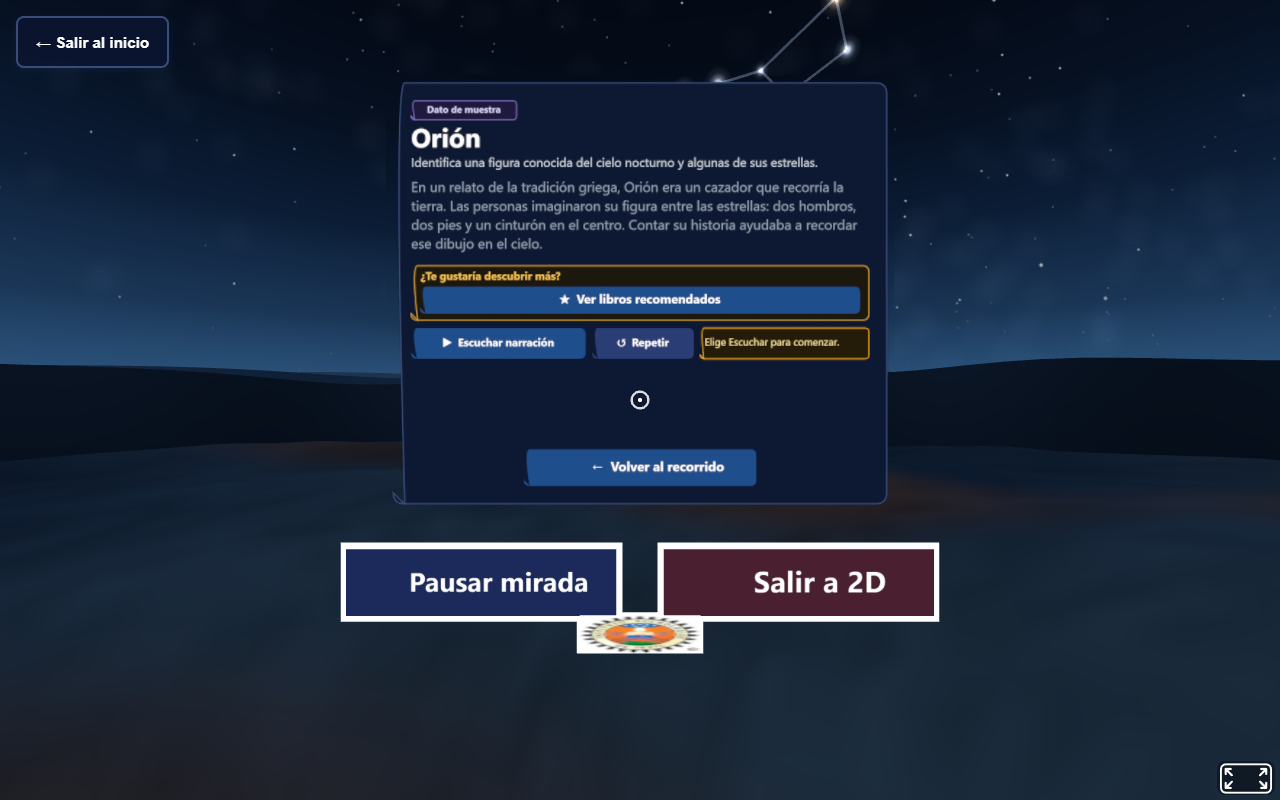
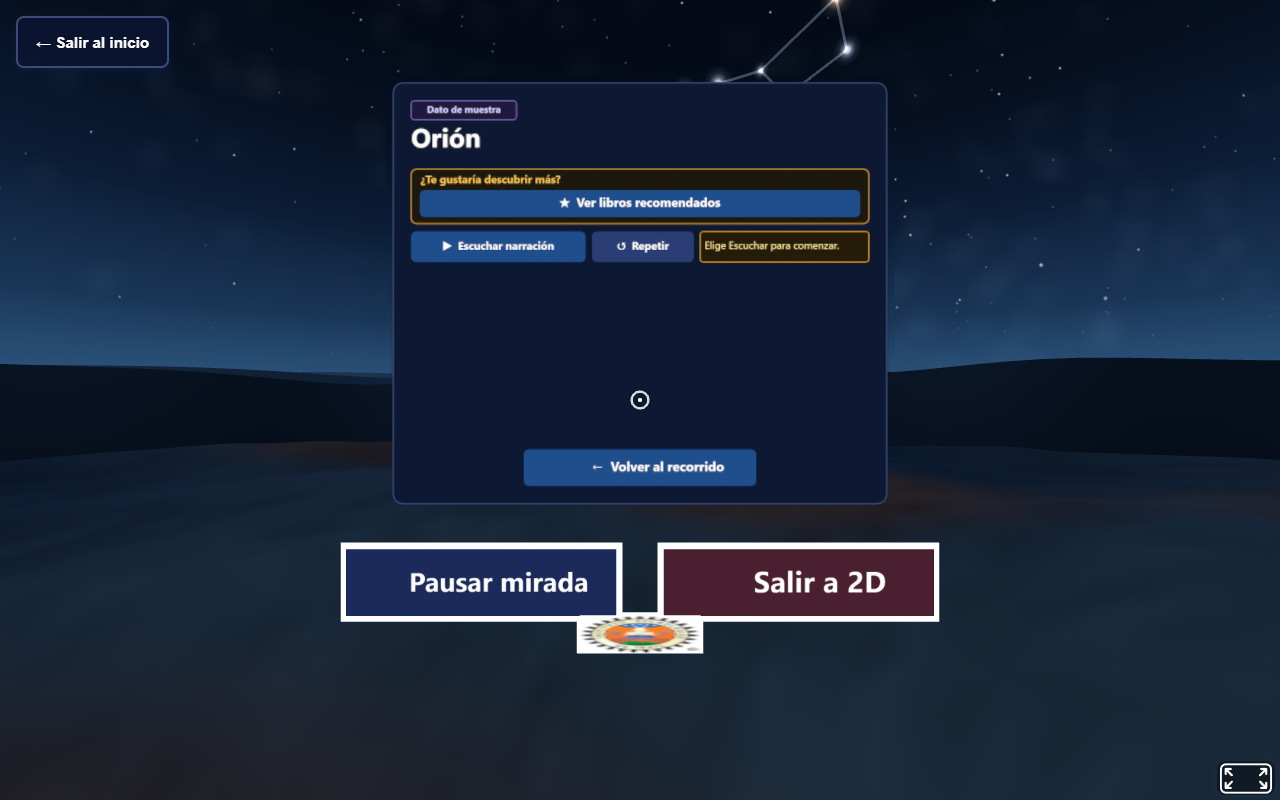
fix(vr): corregir trazarRecta, boton repetir, ficha compacta y activacion homido (S5-02)

Changed region(s): [[0.2812, 0.1562, 0.6875, 0.4688], [0.4062, 0.5625, 0.4375, 0.5938], [0.3125, 0.125, 0.3438, 0.1562]]

diff --git a/astrovisor-s1-inicio/frontend/test/homido-vr-s5.test.js b/astrovisor-s1-inicio/frontend/test/homido-vr-s5.test.js
@@ -1,55 +1,65 @@
-import { test } from 'node:test';
+import test from 'node:test';
 import assert from 'node:assert/strict';
 import fs from 'node:fs';
 import path from 'node:path';
 import { fileURLToPath } from 'node:url';
+import { crearEstado } from '../public/prueba-homido/js/visor-estado.js';
+import { calcularLayout, CANVAS } from '../public/prueba-homido/js/ficha-canvas.js';
 
 const __filename = fileURLToPath(import.meta.url);
 const __dirname = path.dirname(__filename);
 
 test('S5-02: index.html incluye los elementos directos y el logo de IT Tepic', () => {
   const htmlPath = path.resolve(__dirname, '../public/prueba-homido/index.html');
-  const content = fs.readFileSync(htmlPath, 'utf8');
+  const html = fs.readFileSync(htmlPath, 'utf8');
 
-  // Botón directo de salida y overlay de interacción
-  assert.ok(content.includes('id="directExitBtn"'), 'Debe incluir botón flotante directExitBtn');
-  assert.ok(content.includes('id="vrInteractionOverlay"'), 'Debe incluir overlay de interacción');
-
-  // Logotipo IT Tepic en VR
-  assert.ok(content.includes('id="itTepicLogo"'), 'Debe incluir asset de imagen itTepicLogo');
-  assert.ok(content.includes('id="itTepicLogo3D"'), 'Debe incluir plano 3D itTepicLogo3D en visorControls3D');
+  assert.ok(html.includes('id="directExitBtn"'), 'Debe existir directExitBtn');
+  assert.ok(html.includes('id="itTepicLogo3D"'), 'Debe existir itTepicLogo3D');
+  assert.ok(html.includes('ITTepic_logo.jpg'), 'Debe cargar el asset de IT Tepic');
+  assert.ok(html.includes('id="btnActivarInmersion"'), 'Debe existir control de activación directa de Homido');
 });
 
 test('S5-02: prueba.js preserva el cielo visible al abrir la ficha', () => {
   const pruebaPath = path.resolve(__dirname, '../public/prueba-homido/prueba.js');
   const content = fs.readFileSync(pruebaPath, 'utf8');
 
-  // abrirFicha conserva constelacionesEl visible
   assert.ok(
-    content.includes("constelacionesEl.setAttribute('visible', 'true');"),
+    content.includes("constelacionesEl.setAttribute('visible', 'true')"),
     'abrirFicha debe mantener visible el grupo de constelaciones'
   );
   assert.ok(
     content.includes("c.resaltar(cId === id)"),
-    'abrirFicha debe resaltar la constelación activa'
+    'abrirFicha debe resaltar la constelación seleccionada'
   );
 });
 
-test('S5-02: prueba.js y ficha-canvas.js soportan la acción de repetir audio', () => {
-  const pruebaPath = path.resolve(__dirname, '../public/prueba-homido/prueba.js');
+test('S5-02: prueba.js, visor-estado.js y ficha-canvas.js soportan la acción de repetir audio por clic y mirada', () => {
   const canvasPath = path.resolve(__dirname, '../public/prueba-homido/js/ficha-canvas.js');
+  const pruebaPath = path.resolve(__dirname, '../public/prueba-homido/prueba.js');
   const narrPath = path.resolve(__dirname, '../public/prueba-homido/narraciones.js');
 
-  const prueba = fs.readFileSync(pruebaPath, 'utf8');
   const canvas = fs.readFileSync(canvasPath, 'utf8');
+  const prueba = fs.readFileSync(pruebaPath, 'utf8');
   const narr = fs.readFileSync(narrPath, 'utf8');
 
   assert.ok(canvas.includes('zonas.repetir = repetir'), 'ficha-canvas debe definir zonas.repetir');
   assert.ok(prueba.includes("t.accion === 'repetir'"), 'prueba.js debe despachar accion repetir');
+  assert.ok(prueba.includes("'audio', 'repetir', 'volver'"), 'objetivoEnVista debe admitir repetir');
   assert.ok(narr.includes('astrovisor:audio-repetir'), 'narraciones.js debe escuchar evento de repetición');
+  assert.ok(narr.includes('narrador.detener()'), 'repetición debe detener y reiniciar desde segundo 0');
+
+  // Comprobar visor-estado.js
+  const estado = crearEstado();
+  assert.equal(estado.permitido('repetir', 'clic'), false, 'repetir no permitido en reposo');
+  estado.abrirFicha('orion');
+  assert.equal(estado.permitido('repetir', 'clic'), true, 'repetir permitido por clic con ficha abierta');
+  assert.equal(estado.permitido('repetir', 'mirada'), true, 'repetir permitido por mirada con ficha abierta');
+  estado.alternarPausa(); // pausar mirada
+  assert.equal(estado.permitido('repetir', 'mirada'), false, 'mirada pausada no debe permitir enfocar repetir');
+  assert.equal(estado.permitido('repetir', 'clic'), true, 'clic sigue permitido con mirada pausada');
 });
 
-test('S5-02: prueba.js activa modo directo para modo=libre y modo=homido', () => {
+test('S5-02: prueba.js activa modo directo para modo=libre, modo=homido y fallback sin modo', () => {
   const pruebaPath = path.resolve(__dirname, '../public/prueba-homido/prueba.js');
   const content = fs.readFileSync(pruebaPath, 'utf8');
 
@@ -58,7 +68,31 @@ test('S5-02: prueba.js activa modo directo para modo=libre y modo=homido', () =>
     'Debe reconocer modo libre y homido'
   );
   assert.ok(
+    content.includes("!modoParam"),
+    'Debe aplicar fallback para acceso sin parámetro de modo conforme a OpenSpec'
+  );
+  assert.ok(
     content.includes("document.body.classList.add('modo-directo')"),
     'Debe aplicar clase modo-directo'
   );
+});
+
+test('S5-02: geometría de ficha-canvas.js corrige el trazado del lado izquierdo en trazarRecta', () => {
+  const canvasPath = path.resolve(__dirname, '../public/prueba-homido/js/ficha-canvas.js');
+  const canvas = fs.readFileSync(canvasPath, 'utf8');
+
+  assert.ok(canvas.includes('ctx.lineTo(x, y + r)'), 'Debe trazar el borde vertical izquierdo hacia y + r');
+  assert.equal(canvas.includes('ctx.lineTo(x + r, y + h)\n  ctx.quadraticCurveTo(x, y, x + r, y)'), false, 'No debe tener el segmento incorrecto duplicado');
+});
+
+test('S5-02: ficha inmersiva omite pared de texto (resumen e historia extensa) en VR', () => {
+  const canvasPath = path.resolve(__dirname, '../public/prueba-homido/js/ficha-canvas.js');
+  const canvas = fs.readFileSync(canvasPath, 'utf8');
+
+  assert.equal(canvas.includes('ficha.resumen'), false, 'No debe dibujar resumen extenso en la ficha inmersiva');
+  assert.equal(canvas.includes('historiaParaVisor(ficha, maxHistoria)'), false, 'No debe dibujar historia extensa en VR');
+  assert.ok(canvas.includes('ficha.titulo'), 'Debe conservar el título');
+  assert.ok(canvas.includes('zonas.audio'), 'Debe conservar los controles de audio');
+  assert.ok(canvas.includes('zonas.repetir'), 'Debe conservar el botón repetir');
+  assert.ok(canvas.includes('zonas.volver'), 'Debe conservar el botón volver');
 });

diff --git a/astrovisor-s1-inicio/frontend/public/prueba-homido/prueba.js b/astrovisor-s1-inicio/frontend/public/prueba-homido/prueba.js
@@ -137,7 +137,7 @@ import { rutaLibro2D } from './js/ruta-libro-2d.js';
 
   function nombreDe(t) {
     if (t.accion === 'constelacion') return fichas.get(t.id)?.titulo || t.id;
-    return { volver: '← Volver al recorrido', audio: 'Escuchar narración', libros: 'Ver libros recomendados', libro: 'Abrir libro', 'volver-ficha': 'Volver a la constelación', 'volver-libros': 'Volver a los libros', 'consultar-libro': 'Consultar libro en 2D', pausa: estado.pausado ? 'Reanudar mirada' : 'Pausar mirada', salir: 'Salir a 2D' }[t.accion] || t.accion;
+    return { volver: '← Volver al recorrido', audio: 'Escuchar narración', repetir: 'Repetir narración desde el inicio', libros: 'Ver libros recomendados', libro: 'Abrir libro', 'volver-ficha': 'Volver a la constelación', 'volver-libros': 'Volver a los libros', 'consultar-libro': 'Consultar libro en 2D', pausa: estado.pausado ? 'Reanudar mirada' : 'Pausar mirada', salir: 'Salir a 2D' }[t.accion] || t.accion;
   }
 
   function mensajeEnReposo() {
@@ -152,7 +152,7 @@ import { rutaLibro2D } from './js/ruta-libro-2d.js';
   function objetivoEnVista(t) {
     if (t.accion === 'pausa' || t.accion === 'salir') return true;
     if (t.accion === 'constelacion') return estado.modo === 'recorrido';
-    if (['audio', 'volver', 'libros'].includes(t.accion)) return vistaLectura === 'ficha';
+    if (['audio', 'repetir', 'volver', 'libros'].includes(t.accion)) return vistaLectura === 'ficha';
     if (['libro', 'volver-ficha'].includes(t.accion)) return vistaLectura === 'estanteria';
     if (['consultar-libro', 'volver-libros'].includes(t.accion)) return vistaLectura === 'detalle';
     return false;
@@ -756,17 +756,34 @@ import { rutaLibro2D } from './js/ruta-libro-2d.js';
       directExitBtn.addEventListener('click', salir);
     }
 
-    if ((modoParam === 'libre' || modoParam === 'homido') && !diagParam) {
+    const modoEfectivo = modoParam || 'libre';
+    if ((modoParam === 'libre' || modoParam === 'homido' || !modoParam) && !diagParam) {
       document.body.classList.add('modo-directo');
       if (directExitBtn) directExitBtn.hidden = false;
     }
 
-    if (modoParam === 'homido' && !diagParam && stereoComponent) {
+    const btnActivar = $('btnActivarInmersion');
+    if (modoEfectivo === 'homido' && !diagParam && stereoComponent) {
       stereoActive = true;
       stereoComponent.enabledStereo = true;
       host.classList.add('stereo-active');
       document.body.classList.add('stereo-mode');
       prepararPantallaCompleta();
+
+      if (btnActivar) {
+        const actualizarBotonActivar = () => {
+          btnActivar.hidden = !!document.fullscreenElement;
+        };
+        actualizarBotonActivar();
+        btnActivar.addEventListener('click', async () => {
+          await prepararPantallaCompleta();
+          if (typeof DeviceOrientationEvent !== 'undefined' && typeof DeviceOrientationEvent.requestPermission === 'function') {
+            try { await DeviceOrientationEvent.requestPermission(); } catch (_) {}
+          }
+          btnActivar.hidden = true;
+        });
+        document.addEventListener('fullscreenchange', actualizarBotonActivar);
+      }
     }
   }
   if (scene.hasLoaded) onSceneReady();

diff --git a/astrovisor-s1-inicio/frontend/public/prueba-homido/js/ficha-canvas.js b/astrovisor-s1-inicio/frontend/public/prueba-homido/js/ficha-canvas.js
@@ -77,16 +77,7 @@ export function calcularLayout(ctx, ficha, { aviso = null, etiquetaAudio = 'Escu
 
     const titulo = medir(TAM.titulo, true, ficha.titulo)
     items.push({ k: 'texto', lineas: titulo, x: MARGEN, y, lh: 80, font: fuente(TAM.titulo, true), color: '#FFFFFF', align: 'left', base: 'top' })
-    y += titulo.length * 80 + 4
-
-    const resumen = medir(TAM.resumen, false, ficha.resumen)
-    items.push({ k: 'texto', lineas: resumen, x: MARGEN, y, lh: 46, font: fuente(TAM.resumen), color: '#CBD5E1', align: 'left', base: 'top' })
-    y += resumen.length * 46 + 20
-
-    // En VR el audio es el canal protagónico; se resume el texto para mantener la escena despejada
-    const historia = medir(TAM.historia, false, historiaParaVisor(ficha, maxHistoria))
-    items.push({ k: 'texto', lineas: historia, x: MARGEN, y, lh: 52, font: fuente(TAM.historia), color: '#94A3B8', align: 'left', base: 'top' })
-    y += historia.length * 52 + 24
+    y += titulo.length * 80 + 36
 
     // Invitación a lecturas recomendadas
     const hayLibro = Array.isArray(ficha.libros) &&
@@ -156,7 +147,7 @@ function trazarRecta(ctx, { x, y, w, h }, r) {
   ctx.quadraticCurveTo(x + w, y + h, x + w - r, y + h)
   ctx.lineTo(x + r, y + h)
   ctx.quadraticCurveTo(x, y + h, x, y + h - r)
-  ctx.lineTo(x + r, y + h)
+  ctx.lineTo(x, y + r)
   ctx.quadraticCurveTo(x, y, x + r, y)
   ctx.closePath()
 }

diff --git a/astrovisor-s1-inicio/frontend/test/homido-ficha.test.js b/astrovisor-s1-inicio/frontend/test/homido-ficha.test.js
@@ -32,12 +32,12 @@ test('ajustarLineas respeta el ancho máximo', () => {
   assert.equal(lineas.join(' '), 'uno dos tres cuatro cinco seis siete ocho nueve diez')
 })
 
-test('cada constelación dibuja su propio título y resumen, y ninguno de otra', () => {
+test('cada constelación dibuja su propio título y controles inmersivos, sin pared de texto en VR', () => {
   for (const ficha of demo) {
     const { ctx, dibujado } = ctxFalso()
     dibujarFicha(ctx, calcularLayout(ctx, ficha))
     assert.ok(dibujado.includes(ficha.titulo))
-    assert.ok(dibujado.join(' ').includes(ficha.resumen.split(' ').slice(0, 3).join(' ')))
+    assert.equal(dibujado.join(' ').includes(ficha.resumen.split(' ').slice(0, 3).join(' ')), false, 'VR omite resumen extenso')
     for (const otra of demo.filter((f) => f.id !== ficha.id)) assert.ok(!dibujado.includes(otra.titulo))
     assert.ok(dibujado.includes('Dato de muestra'))
   }

diff --git a/astrovisor-s1-inicio/frontend/public/prueba-homido/styles.css b/astrovisor-s1-inicio/frontend/public/prueba-homido/styles.css
@@ -708,3 +708,31 @@ body.modo-directo .scene-host {
 .vr-overlay-content button:hover {
   background: #163d70;
 }
+
+.btn-activar-inmersion {
+  position: absolute;
+  bottom: 24px;
+  left: 50%;
+  transform: translateX(-50%);
+  z-index: 1000;
+  background: rgba(13, 24, 51, 0.92);
+  color: #F8FAFC;
+  border: 2px solid #F5B301;
+  border-radius: 9999px;
+  padding: 14px 28px;
+  font-family: inherit;
+  font-size: 1rem;
+  font-weight: 600;
+  cursor: pointer;
+  box-shadow: 0 4px 20px rgba(0, 0, 0, 0.6);
+  min-height: 48px;
+  display: flex;
+  align-items: center;
+  justify-content: center;
+  text-align: center;
+}
+.btn-activar-inmersion:focus-visible,
+.btn-activar-inmersion:hover {
+  background: #1e3a8a;
+  outline: 3px solid #60A5FA;
+}

diff --git a/astrovisor-s1-inicio/frontend/public/prueba-homido/js/visor-estado.js b/astrovisor-s1-inicio/frontend/public/prueba-homido/js/visor-estado.js
@@ -16,7 +16,7 @@ export function crearEstado() {
       if (accion === 'salir' || accion === 'pausa') return true // siempre disponibles
       if (via === 'mirada' && pausado) return false
       if (accion === 'constelacion') return modo === 'recorrido'
-      if (['volver', 'audio', 'libros', 'libro', 'volver-ficha', 'volver-libros', 'consultar-libro'].includes(accion)) return modo === 'ficha'
+      if (['volver', 'audio', 'repetir', 'libros', 'libro', 'volver-ficha', 'volver-libros', 'consultar-libro'].includes(accion)) return modo === 'ficha'
       return false
     },
 

diff --git a/astrovisor-s1-inicio/frontend/public/prueba-homido/index.html b/astrovisor-s1-inicio/frontend/public/prueba-homido/index.html
@@ -122,6 +122,7 @@
       </div>
 
       <div class="scene-host" id="sceneHost">
+        <button id="btnActivarInmersion" class="btn-activar-inmersion" hidden type="button">Toca para pantalla completa y sensores</button>
         <a-scene id="testScene" embedded vr-mode-ui="enabled: false" renderer="antialias: true; colorManagement: true;">
           <a-assets>
             <canvas id="cardCanvas" width="1400" height="1200"></canvas>

diff --git a/astrovisor-s1-inicio/frontend/public/prueba-homido/narraciones.js b/astrovisor-s1-inicio/frontend/public/prueba-homido/narraciones.js
@@ -105,6 +105,7 @@ window.addEventListener('astrovisor:ficha-cerrada', () => cerrar({ desdeVisor: t
 window.addEventListener('astrovisor:audio-solicitado', controlarAudio)
 window.addEventListener('astrovisor:audio-repetir', () => {
   if (!actual) return;
+  narrador.detener();
   narrador.escuchar();
 });
 // La pausa de la mirada ('astrovisor:mirilla-pausa') NO pausa la narración: se controla solo con Pausar/Reanudar de la ficha.
